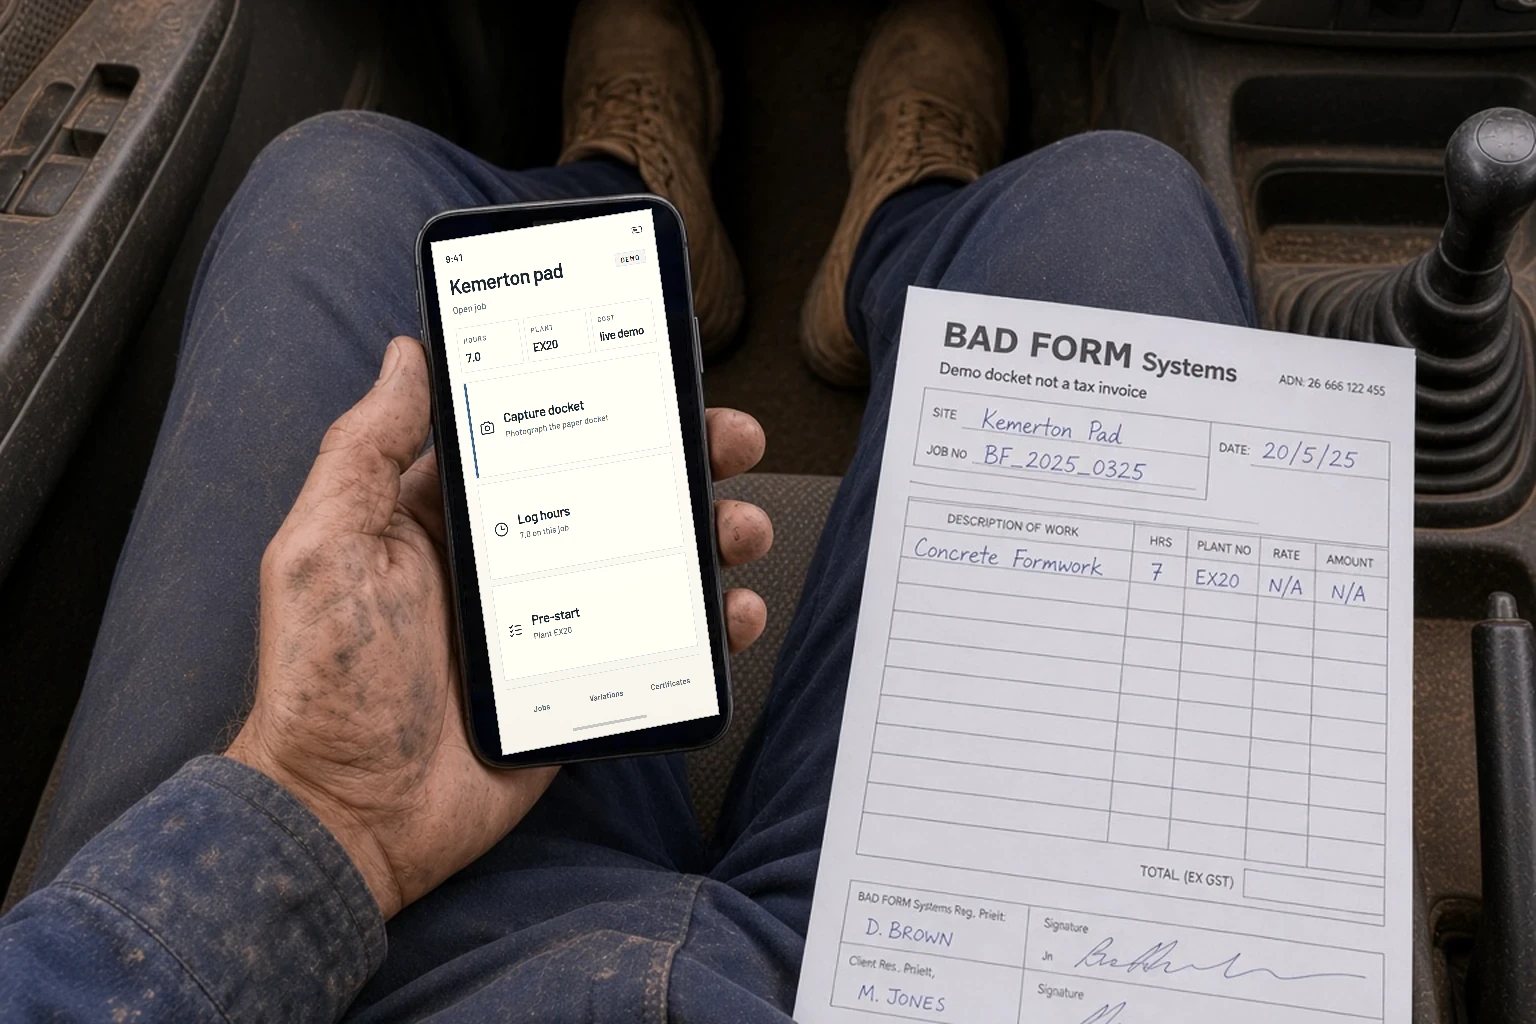
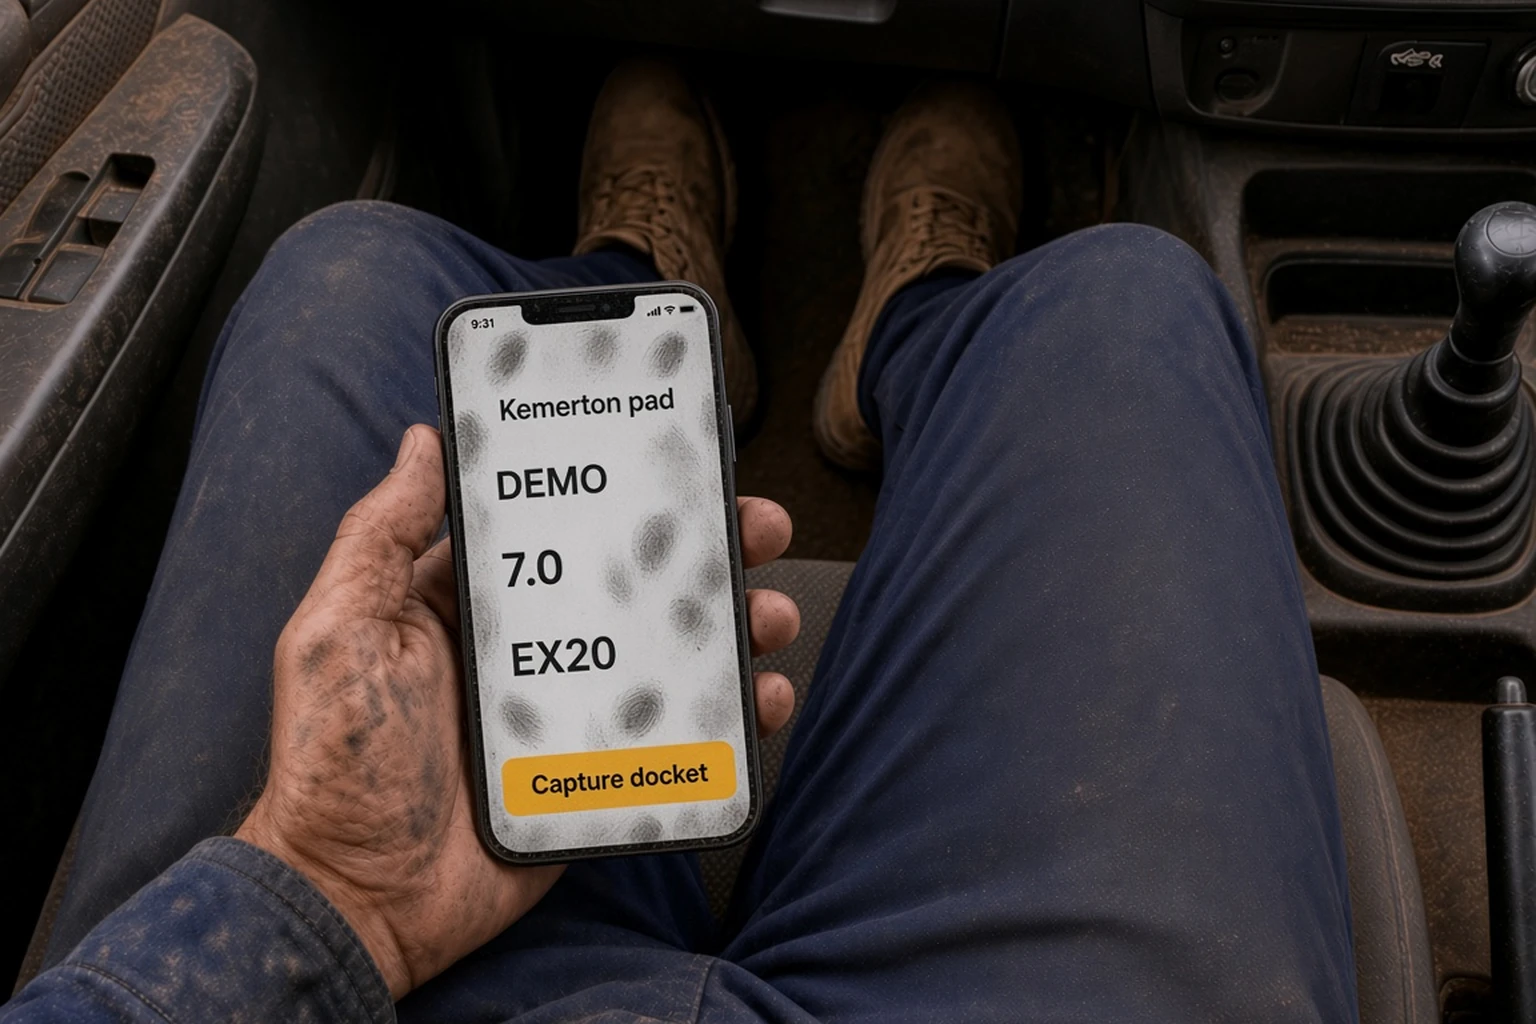
Reshoot cab and office stills so the IMS sits in the glass.
Replace the warped overlay plates with native photographs: dusk cab closer to the phone, daylight and dusk office more square-on to the lid, large locked demo type. Homepage stills stay on rollback until a pair is chosen.

diff --git a/src/components/lab/ims/ImsCompare.tsx b/src/components/lab/ims/ImsCompare.tsx
@@ -94,27 +94,27 @@ export function ImsCompare() {
   const stills = [
     {
       src: imsCopy.stills.cabDay,
-      label: "Cab · daylight composite",
-      objectPositionClass: overview.cabStill.objectPositionClass,
-      alt: "Cab still with daylight IMS on the phone glass.",
+      label: "Cab · daylight native still",
+      objectPositionClass: imsCopy.stills.cabObjectPositionClass,
+      alt: "Native cab still with daylight IMS in the phone glass.",
     },
     {
       src: imsCopy.stills.cabDusk,
-      label: "Cab · dusk composite",
-      objectPositionClass: overview.cabStill.objectPositionClass,
-      alt: "Cab still with dusk IMS on the phone glass.",
+      label: "Cab · dusk native still",
+      objectPositionClass: imsCopy.stills.cabObjectPositionClass,
+      alt: "Native cab still with dusk IMS in the phone glass.",
     },
     {
       src: imsCopy.stills.officeDay,
-      label: "Office · daylight composite",
-      objectPositionClass: overview.officeStill.objectPositionClass,
-      alt: "Office still with daylight IMS on the laptop panel.",
+      label: "Office · daylight native still",
+      objectPositionClass: imsCopy.stills.officeObjectPositionClass,
+      alt: "Native office still with daylight IMS in the laptop glass.",
     },
     {
       src: imsCopy.stills.officeDusk,
-      label: "Office · dusk composite",
-      objectPositionClass: overview.officeStill.objectPositionClass,
-      alt: "Office still with dusk IMS on the laptop panel.",
+      label: "Office · dusk native still",
+      objectPositionClass: imsCopy.stills.officeObjectPositionClass,
+      alt: "Native office still with dusk IMS in the laptop glass.",
     },
   ];
 
@@ -147,10 +147,11 @@ export function ImsCompare() {
       </section>
 
       <section>
-        <h2 className="type-title mb-3 text-2xl">Composited stills</h2>
+        <h2 className="type-title mb-3 text-2xl">Native stills</h2>
         <p className="type-body mb-8 text-brand-steel">
-          LCD warp only, cropped the way the homepage stills crop. Live homepage files are unchanged
-          until a pair is chosen. Default look after review: dusk in the cab, daylight in the office.
+          Whole-frame reshoots, not a warp onto the old overlay plates. Large type in the glass,
+          cropped for the homepage still frame. Live homepage files stay on rollback until a pair is
+          chosen. Default look after review: dusk in the cab, daylight in the office.
         </p>
         <div className="grid gap-6 md:grid-cols-2">
           {stills.map((still) => (
@@ -162,7 +163,8 @@ export function ImsCompare() {
       <section>
         <h2 className="type-title mb-3 text-2xl">Rollback plates</h2>
         <p className="type-body mb-8 text-brand-steel">
-          Current homepage plates, copied before any warp. Homepage still points at these pixels.
+          Current homepage plates, copied before the native reshoot. Homepage still points at these
+          pixels.
         </p>
         <div className="grid gap-6 md:grid-cols-2">
           <CropStill

diff --git a/src/content/ims.ts b/src/content/ims.ts
@@ -11,7 +11,7 @@ export type ImsJobRow = {
 export const imsCopy = {
   labTitle: "IMS screens",
   labBody:
-    "Lab only. Theoretical field and office chrome for the cab and desk stills. Same job system, two paints. Not a shipped product.",
+    "Lab only. Theoretical field and office chrome, plus native stills reshot so the screens sit in the glass. Same job system, two paints. Not a shipped product.",
   jobTitle: "Kemerton pad",
   demo: "DEMO",
   demoNote: "Theoretical IMS. Demo layout, not a live customer job.",
@@ -106,6 +106,8 @@ export const imsCopy = {
     officeDusk: "/images/office-ims-dusk.webp",
     cabRollback: "/images/hero-cab-rollback.webp",
     officeRollback: "/images/office-ims-rollback.webp",
+    cabObjectPositionClass: "object-[48%_46%]",
+    officeObjectPositionClass: "object-[72%_32%]",
   },
 };
 
